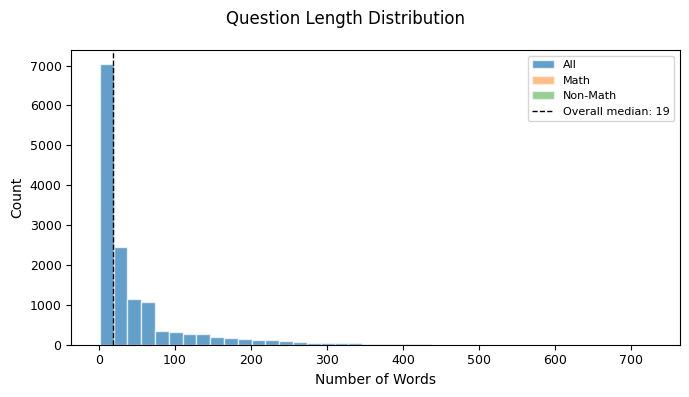
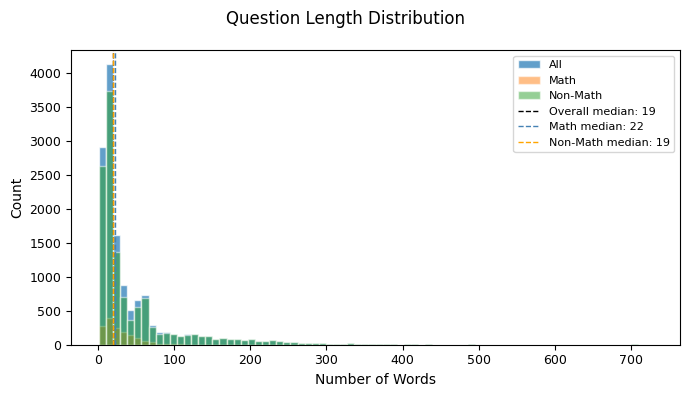
fix: fixed a bug on question length figure section

diff --git a/mmlu.py b/mmlu.py
@@ -1,4 +1,5 @@
 import os
+import numpy as np
 import pandas as pd
 import matplotlib.pyplot as plt
 import seaborn as sns
@@ -80,16 +81,22 @@ plt.show()
 fig, ax = plt.subplots(figsize=(7, 4))
 fig.suptitle("Question Length Distribution")
 
-ax.hist(mmlu_df["question_len"], bins=40,
-        alpha=0.7, edgecolor="white", density=False, label="All")
+_, bin_edges = np.histogram(mmlu_df["question_len"], bins="scott")
 
-ax.hist(mmlu_df[mmlu_df["category"] == "Math"]["question_len"], bins=40,
+ax.hist(mmlu_df["question_len"], bins=bin_edges,
+        alpha=0.7, edgecolor="white", density=False, label="All")
+ax.hist(mmlu_df[mmlu_df["category"] == "Mathematical"]["question_len"], bins=bin_edges,
         alpha=0.5, edgecolor="white", density=False, label="Math")
-ax.hist(mmlu_df[mmlu_df["category"] == "Non-Math"]["question_len"], bins=40,
+ax.hist(mmlu_df[mmlu_df["category"] == "Non-Mathematical"]["question_len"], bins=bin_edges,
         alpha=0.5, edgecolor="white", density=False, label="Non-Math")
 
 median_all = mmlu_df["question_len"].median()
+median_math = mmlu_df[mmlu_df["category"] == "Mathematical"]["question_len"].median()
+median_nonmath = mmlu_df[mmlu_df["category"] == "Non-Mathematical"]["question_len"].median()
+
 ax.axvline(median_all, color="black", linestyle="--", linewidth=1.0, label=f"Overall median: {median_all:.0f}")
+ax.axvline(median_math, color="steelblue", linestyle="--", linewidth=1.0, label=f"Math median: {median_math:.0f}")
+ax.axvline(median_nonmath, color="orange", linestyle="--", linewidth=1.0, label=f"Non-Math median: {median_nonmath:.0f}")
 
 ax.set_xlabel("Number of Words")
 ax.set_ylabel("Count")
